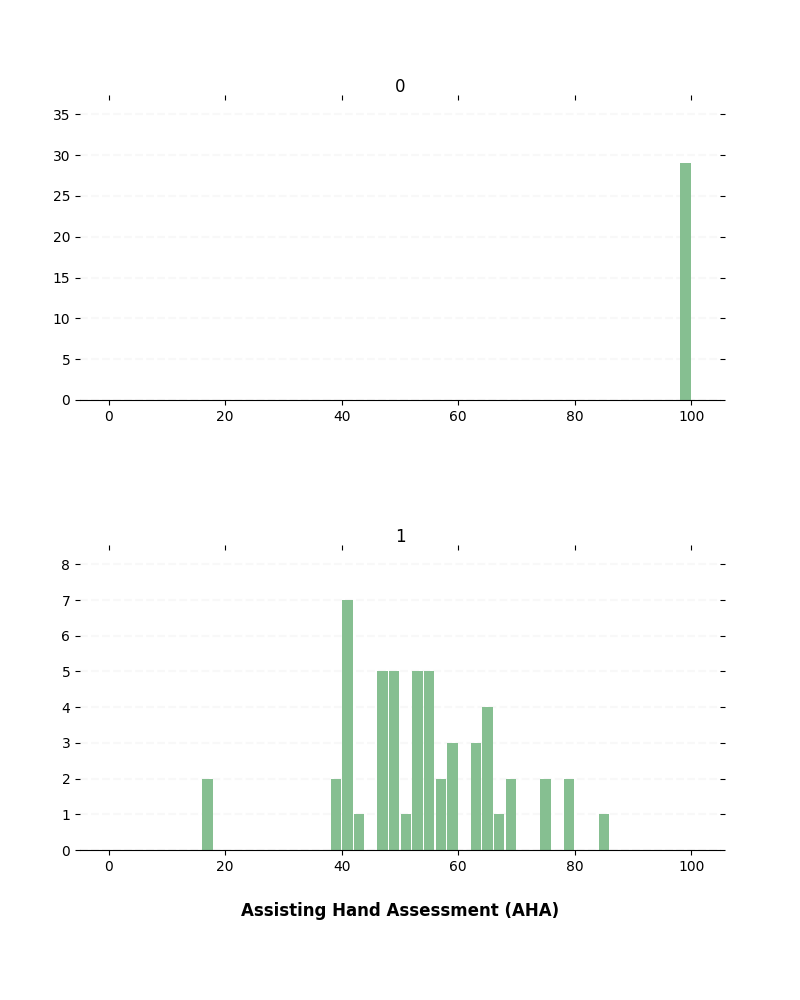
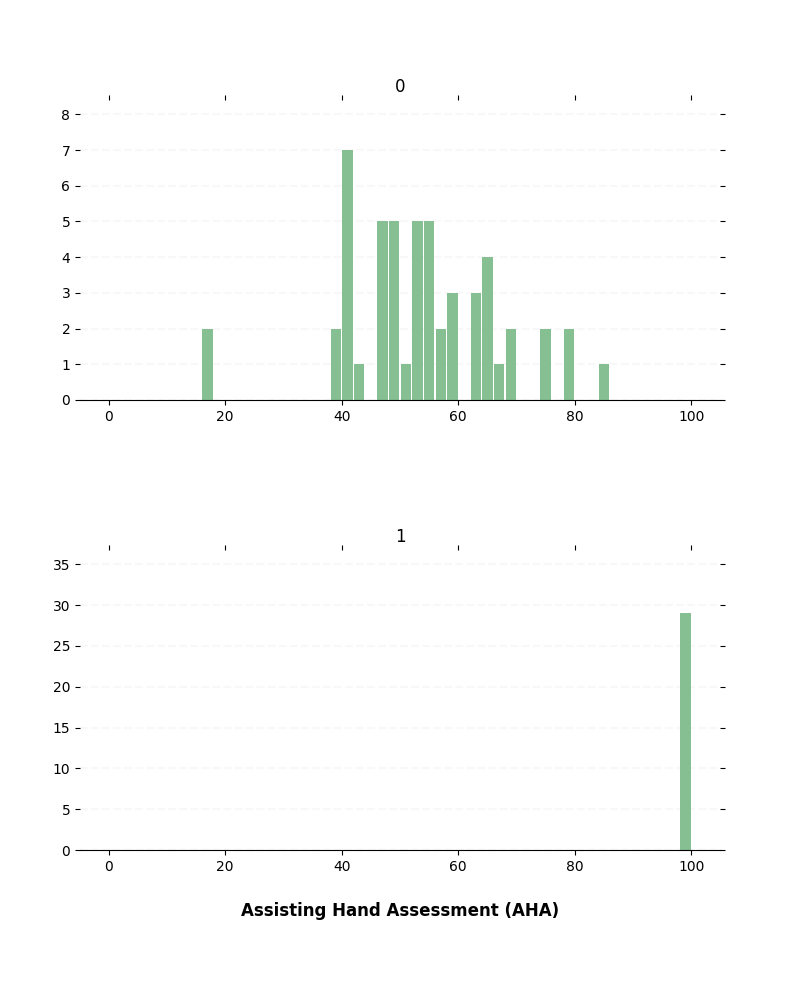
cluster week samples ottimizzato and automatized

diff --git a/Blocco 1/cluster_week_samples.py b/Blocco 1/cluster_week_samples.py
@@ -27,7 +27,7 @@ def save_plots(metadata):
 
 
 # Define the samples size
-match = re.search(r"_W(\d+)", model_folder)
+match = re.search(r"_W(\d+)", model_name)
 folder_name = 'Blocco 1/'+ operation_type +'_version/week_predictions/' + model_name + '/'
 
 if os.path.exists(folder_name + '/predictions_dataframe.csv'):
@@ -43,6 +43,9 @@ else:
 
 metadata = pd.read_excel(folder + 'metadata2022_04.xlsx')
 metadata.drop(['age_aha', 'gender', 'dom', 'date AHA', 'start AHA', 'stop AHA'], axis=1, inplace=True)
+
+stats = pd.read_csv(model_folder + 'statistiche.csv')
+hemi_cluster = int(float(stats['AHA'][2]) > float(stats['AHA'][3]))
 
 guessed_hemiplegic_patients = 0
 guessed_healthy_patients = 0
@@ -74,7 +77,7 @@ for i in range (1,61):
     print("Inizio fase incrementi e stampe")
     for y in Y:
         # Presupponendo che i pazienti emiplegici siano nel cluster 0
-        if y == 1:
+        if y == hemi_cluster:
             cluster_hemiplegic_samples += 1
         else:
             cluster_healthy_samples += 1    

diff --git a/Blocco 1/compulsive_trainer.py b/Blocco 1/compulsive_trainer.py
@@ -5,10 +5,10 @@ folder = 'C:/Users/giord/Downloads/only AC data/only AC/'
 
 plot_clusters = False
 
-l_operation_type =      ['concat','difference', 'ai']   # ['concat','difference', 'ai']
+l_operation_type =      ['ai']   # ['concat','difference', 'ai']
 l_patients =            [60]                            # [34, 60]
 l_model_type =          ['KMeans']                      # ['KMeans', 'KShapes', 'KernelKMeans', 'KMedoids']
-l_window_size =         [900]                           # [300, 600, 900] 
+l_window_size =         [600]                           # [300, 600, 900] 
 l_n_clusters =          [2]                       # [2, 3, 4, 6, 8, 10, 12, 14, 16, 24, 32, 40, 60]
 l_init_algorithm =      ['kmeans++']                    # ['kmeans++', 'forgy', 'random']
 l_metric =              ['euclidean']            # ['euclidean', 'dtw']

diff --git a/Blocco 1/train_clustering_model.py b/Blocco 1/train_clustering_model.py
@@ -1,7 +1,6 @@
 import os
-import pandas as pd
+import numpy as np
 import joblib as jl
-import matplotlib.pyplot as plt
 from create_windows import create_windows
 from save_model_stats import save_model_stats
 
@@ -53,7 +52,7 @@ def train_clustering_model(folder, plot_clusters, operation_type, patients, mode
     series, y_AHA, y_MACS, total, taken, lost = create_windows(WINDOW_SIZE, folder,operation_type, patients)
 
     # Create a DataFrame with a single column of Series objects
-    X = pd.DataFrame({'series': series})
+    X = np.array(series)
 
     model_folder = "./Blocco 1/"+operation_type+"_version/" + str(patients) + "_patients/" + model_type + "/" + model_name
 
